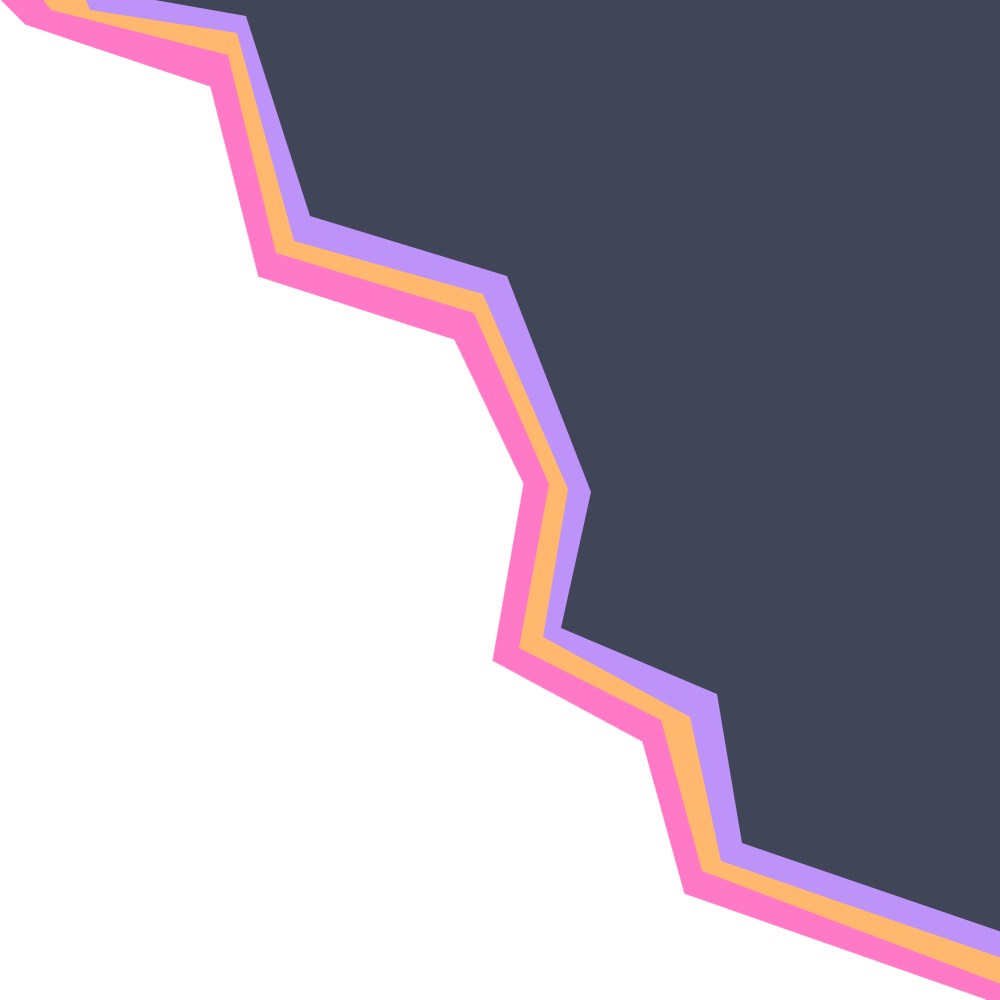
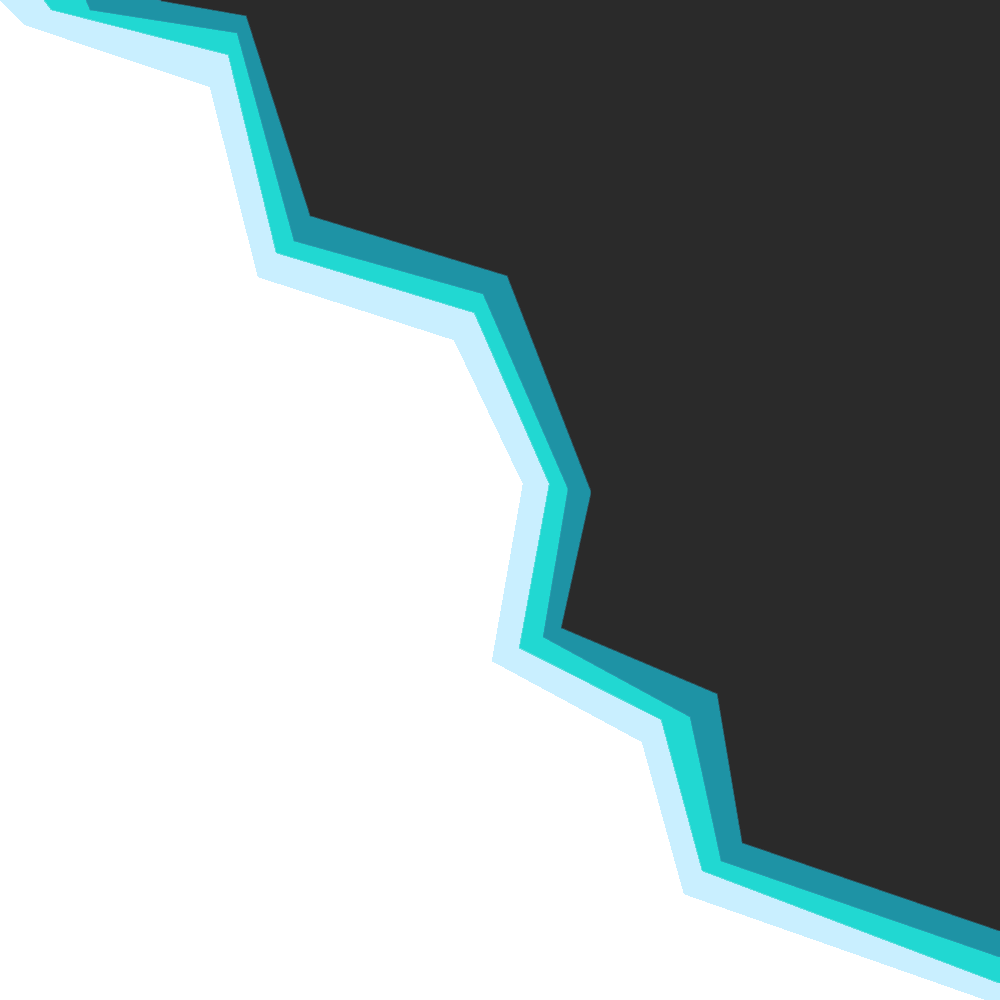
ui updates

diff --git a/src/components/forms/profile-edit.tsx b/src/components/forms/profile-edit.tsx
@@ -267,7 +267,7 @@ export default function ProfileEditForm(props: {
     }
 
     return (
-        <div className="card overflow-hidden bg-base-300 shadow-xl glass rounded-none md:rounded-2xl">
+        <div className="card overflow-hidden bg-base-300 shadow-xl glass rounded-2xl md:rounded-2xl">
             <div className="bg-base-300 card-body m-1 pulsar-shadow text-white sm: md:rounded-2xl shadow-2xl glass">
                 <div className="divider divider-primary">Basics</div>
 
@@ -300,7 +300,7 @@ export default function ProfileEditForm(props: {
                         <label className="label">
                             <span className="label-text">Profile description</span>
                         </label>
-                        <div className="join w-full rounded-xl">
+                        <div className="join w-full rounded-2xl">
                             <input type="text" placeholder="Description" className="input input-bordered shadow-md w-full glass placeholder:text-gray-200 rounded-l-xl" {
                                 ...registerDescr("description", {
                                     minLength: { value: 4, message: "Min length must be 4" },
@@ -378,7 +378,7 @@ export default function ProfileEditForm(props: {
                 </form>
 
                 <div className="divider divider-primary mt-10">Socials</div>
-                <button className="rounded-xl btn hover:bg-white hover:text-black glass text-white" onClick={userData.user.google?.email ? handleUnlinkGoogle : () => handleGoogle()}>
+                <button className="rounded-2xl btn hover:bg-white hover:text-black glass text-white" onClick={userData.user.google?.email ? handleUnlinkGoogle : () => handleGoogle()}>
                     <svg xmlns="http://www.w3.org/2000/svg" height="24" viewBox="0 0 24 24" width="24">
                         <path d="M22.56 12.25c0-.78-.07-1.53-.2-2.25H12v4.26h5.92c-.26 1.37-1.04 2.53-2.21 3.31v2.77h3.57c2.08-1.92 3.28-4.74 3.28-8.09z" fill="#4285F4"/>
                         <path d="M12 23c2.97 0 5.46-.98 7.28-2.66l-3.57-2.77c-.98.66-2.23 1.06-3.71 1.06-2.86 0-5.29-1.93-6.16-4.53H2.18v2.84C3.99 20.53 7.7 23 12 23z" fill="#34A853"/>
@@ -396,7 +396,7 @@ export default function ProfileEditForm(props: {
                     }}
                     onProfileSuccess={onFacebookGetProfileSuccess}
                     render={({ onClick, logout }) => (
-                        <button className="rounded-xl btn hover:bg-blue-600 glass text-white" onClick={userData.user.facebook?.name ? handleUnlinkFacebook : onClick}>
+                        <button className="rounded-2xl btn hover:bg-blue-600 glass text-white" onClick={userData.user.facebook?.name ? handleUnlinkFacebook : onClick}>
                             <svg fill="#0091ff" height="25px" width="25px" version="1.1" id="Layer_1" xmlns="http://www.w3.org/2000/svg" viewBox="0 0 310 310" stroke="#0091ff">
                             <g id="SVGRepo_bgCarrier" strokeWidth="0"></g><g id="SVGRepo_tracerCarrier" strokeLinecap="round" strokeLinejoin="round"></g>
                             <g id="SVGRepo_iconCarrier"> 
@@ -414,7 +414,7 @@ export default function ProfileEditForm(props: {
                 {
                     userData.user.twitter?.name
                     ?
-                    <button className="rounded-xl btn hover:bg-base-300 glass text-white w-full" onClick={handleUnlinkTwitter}>
+                    <button className="rounded-2xl btn hover:bg-base-300 glass text-white w-full" onClick={handleUnlinkTwitter}>
                         <svg xmlns="http://www.w3.org/2000/svg" x="0px" y="0px" width="32" height="32" viewBox="0 0 48 48">
                             <path fill="#212121" fillRule="evenodd" d="M38,42H10c-2.209,0-4-1.791-4-4V10c0-2.209,1.791-4,4-4h28	c2.209,0,4,1.791,4,4v28C42,40.209,40.209,42,38,42z" clipRule="evenodd"></path><path fill="#fff" d="M34.257,34h-6.437L13.829,14h6.437L34.257,34z M28.587,32.304h2.563L19.499,15.696h-2.563 L28.587,32.304z"></path><polygon fill="#fff" points="15.866,34 23.069,25.656 22.127,24.407 13.823,34"></polygon><polygon fill="#fff" points="24.45,21.721 25.355,23.01 33.136,14 31.136,14"></polygon>
                         </svg>
@@ -428,7 +428,7 @@ export default function ProfileEditForm(props: {
                             consumerKey={envCfg.passporttwitterKEY as string}
                             consumerSecret={envCfg.passportTwitterSECRET as string}
                         >
-                            <button className="rounded-xl btn hover:bg-base-300 glass text-white w-full">
+                            <button className="rounded-2xl btn hover:bg-base-300 glass text-white w-full">
                                 <svg xmlns="http://www.w3.org/2000/svg" x="0px" y="0px" width="32" height="32" viewBox="0 0 48 48">
                                     <path fill="#212121" fillRule="evenodd" d="M38,42H10c-2.209,0-4-1.791-4-4V10c0-2.209,1.791-4,4-4h28	c2.209,0,4,1.791,4,4v28C42,40.209,40.209,42,38,42z" clipRule="evenodd"></path><path fill="#fff" d="M34.257,34h-6.437L13.829,14h6.437L34.257,34z M28.587,32.304h2.563L19.499,15.696h-2.563 L28.587,32.304z"></path><polygon fill="#fff" points="15.866,34 23.069,25.656 22.127,24.407 13.823,34"></polygon><polygon fill="#fff" points="24.45,21.721 25.355,23.01 33.136,14 31.136,14"></polygon>
                                 </svg>

diff --git a/src/components/bars/category-leftbar/category-leftbar.tsx b/src/components/bars/category-leftbar/category-leftbar.tsx
@@ -10,12 +10,12 @@ export default function CategoryLeftBar(props: {
     const { title, bgImage, iconImage, description, count } = props;
 
     return (
-        <div className={`card w-fit max-w-[305px] bg-cover bg-center bg-base-300 shadow-none text-white max-h-52 relative bg-opacity-80`} 
+        <div className={`card w-fit max-w-[305px] bg-cover bg-center bg-base-300 shadow-none text-white max-h-52 relative bg-opacity-80 rounded-2xl`} 
             style={{ backgroundImage: `url(${'/assets/bgs/category.png'})` }}
         >
             
             <div className="card-body relative">
-                <div className="bg-secondary absolute top-0 left-0 w-fit rounded-br-xl rounded-tl-xl px-3 glass flex flex-row items-center">
+                <div className="bg-base-300 absolute top-0 left-0 w-fit rounded-br-xl rounded-tl-xl px-3 glass flex flex-row items-center">
                     <svg xmlns="http://www.w3.org/2000/svg" viewBox="0 0 16 16" fill="currentColor" className="size-4">
                         <path fillRule="evenodd" d="M5 1a2 2 0 0 0-2 2v10a2 2 0 0 0 2 2h6a2 2 0 0 0 2-2V3a2 2 0 0 0-2-2H5Zm.75 6a.75.75 0 1 0 0 1.5.75.75 0 0 0 0-1.5ZM5 3.75A.75.75 0 0 1 5.75 3h4.5a.75.75 0 0 1 0 1.5h-4.5A.75.75 0 0 1 5 3.75Zm.75 7.75a.75.75 0 1 0 0 1.5.75.75 0 0 0 0-1.5ZM5 10a.75.75 0 1 1 1.5 0A.75.75 0 0 1 5 10Zm5.25-3a.75.75 0 1 0 0 1.5.75.75 0 0 0 0-1.5Zm-.75 3a.75.75 0 0 1 1.5 0v2.25a.75.75 0 0 1-1.5 0V10ZM8 7a.75.75 0 1 0 0 1.5A.75.75 0 0 0 8 7Zm-.75 5.25a.75.75 0 1 1 1.5 0 .75.75 0 0 1-1.5 0Zm.75-3a.75.75 0 1 0 0 1.5.75.75 0 0 0 0-1.5Z" clipRule="evenodd" />
                     </svg>
@@ -32,7 +32,7 @@ export default function CategoryLeftBar(props: {
                 <p className="mr-8">{description}</p>
 
                 <div className="absolute top-0 right-0 h-full card-actions justify-end p-1">
-                    <Link className="btn btn-primary glass h-full btn-sm text-white rounded-xl" href={`/categories/${String(title).toLowerCase().replaceAll(' ', '-')}/1`}>
+                    <Link className="btn btn-primary glass h-full btn-sm text-white rounded-2xl" href={`/categories/${String(title).toLowerCase().replaceAll(' ', '-')}/1`}>
                         <svg xmlns="http://www.w3.org/2000/svg" viewBox="0 0 24 24" fill="currentColor" className="size-6">
                             <path fillRule="evenodd" d="M13.28 11.47a.75.75 0 0 1 0 1.06l-7.5 7.5a.75.75 0 0 1-1.06-1.06L11.69 12 4.72 5.03a.75.75 0 0 1 1.06-1.06l7.5 7.5Z" clipRule="evenodd" />
                             <path fillRule="evenodd" d="M19.28 11.47a.75.75 0 0 1 0 1.06l-7.5 7.5a.75.75 0 1 1-1.06-1.06L17.69 12l-6.97-6.97a.75.75 0 0 1 1.06-1.06l7.5 7.5Z" clipRule="evenodd" />

diff --git a/src/components/common/profile-card/profile-card.tsx b/src/components/common/profile-card/profile-card.tsx
@@ -141,7 +141,7 @@ export default function ProfileCard(props: {
                 refDialog={cropperModalRef}
                 handleImageCropModalClose={handleImageCropModalClose}
             />
-            <div className={`${!disableMargins && 'm-0 md:mx-4 md:mt-4'} card w-full text-white rounded-none md:rounded-2xl shadow-2xl bg-base-300`}>
+            <div className={`${!disableMargins && 'm-0 md:mx-4 md:mt-4'} card w-full text-white rounded-2xl md:rounded-2xl shadow-2xl bg-base-300`}>
                 <figure className="max-h-48">
                     <img className="w-full" src={data.user.background.length ? `${envCfg.serverBase}/files/${data.user.background}` : "/assets/bgs/profileDefaultBG.png"} alt="background"/>
                 </figure>
@@ -204,7 +204,7 @@ export default function ProfileCard(props: {
                                         <input 
                                             ref={refAvatar}
                                             type="file" 
-                                            className="rounded-xl file-input file-input-bordered w-full file:glass file:text-white file: placeholder:text-gray-200" 
+                                            className="rounded-2xl file-input file-input-bordered w-full file:glass file:text-white file: placeholder:text-gray-200" 
                                             onInput={e => handlePicture((e.target as HTMLInputElement).files?.[0] || null, "avatar")}
                                         />
                                     </label>
@@ -217,7 +217,7 @@ export default function ProfileCard(props: {
                                         <input 
                                             ref={refBackground}
                                             type="file" 
-                                            className="rounded-xl file-input file-input-bordered w-full file:glass file:text-white file: placeholder:text-gray-200" 
+                                            className="rounded-2xl file-input file-input-bordered w-full file:glass file:text-white file: placeholder:text-gray-200" 
                                             onInput={e => handlePicture((e.target as HTMLInputElement).files?.[0] || null, "background")}
                                         />
                                     </label>

diff --git a/src/app/globals.css b/src/app/globals.css
@@ -18,7 +18,7 @@
 }
 
 html {
-  background: linear-gradient(300deg, #ac5286, #bd93f9, #ffb86c, #414558);
+  background: linear-gradient(300deg, #1ba39c, #000000, #363636, #1ba39c, #ffffff);
   background-size: 240% 240%;
   animation: gradient-animation 60s ease infinite;
   transition: all .1s;
@@ -53,14 +53,14 @@ body {
   }
 
   .animated-box::before {
-    @apply content-[''] shadow-cyan-400 shadow-2xl absolute top-[-240px] left-[150px] w-[100px] h-[800px] bg-gradient-to-r from-[#66c1bd] to-[#ff79c6] animate-fullSpin
+    @apply content-[''] shadow-cyan-400 shadow-2xl absolute top-[-240px] left-[150px] w-[100px] h-[800px] bg-gradient-to-r from-[#1b8e9d] to-[#c9effe] animate-fullSpin
   }
   .animated-box::after {
     @apply content-[''] absolute inset-0.5 rounded-2xl
   }
 
   .animated-box-tools::before {
-    @apply content-[''] shadow-cyan-400 shadow-2xl absolute top-[-700px] left-[47%] w-[100px] h-[1700px] bg-gradient-to-r from-[#66c1bd] to-[#ff79c6] animate-fullSpin
+    @apply content-[''] shadow-cyan-400 shadow-2xl absolute top-[-700px] left-[47%] w-[100px] h-[1700px] bg-gradient-to-r from-[#1b8e9d] to-[#c9effe] animate-fullSpin
   }
   .animated-box-tools::after {
     @apply content-[''] absolute inset-0.5 rounded-2xl
@@ -76,7 +76,7 @@ body {
       box-shadow: none;
     }
     50% {
-      box-shadow: 0 0 20px #ffb86c; /* Tailwind’s shadow-2xl equivalent */
+      box-shadow: 0 0 20px #1b8e9d; /* Tailwind’s shadow-2xl equivalent */
     }
     100% {
       box-shadow: none;

diff --git a/src/components/bars/bar-tabs/bar-tabs-playlists.tsx b/src/components/bars/bar-tabs/bar-tabs-playlists.tsx
@@ -8,20 +8,20 @@ export default function BarTabsPlaylists(props: {
     const { activeTab } = props;
 
     return (
-        <div role="tablist" className="tabs tabs-boxed w-full bg-base-300 glass m-0 mt-3 md:mx-4 md:mt-4 rounded-none md:rounded-xl">
+        <div role="tablist" className="tabs tabs-boxed w-full bg-base-300 glass m-0 mt-3 md:mx-4 md:mt-4 rounded-2xl md:rounded-2xl">
             <Link 
                 role="tab" 
-                className={`tab ${activeTab === "explore" && "glass bg-[#bd93f9]"}`}
+                className={`tab ${activeTab === "explore" && "glass bg-[#1ba39c] text-white"}`}
                 href="/playlists/explore/1"
             >Explore</Link>
             <Link 
                 role="tab" 
-                className={`tab ${activeTab === "my-playlists" && "glass bg-[#bd93f9]"}`}
+                className={`tab ${activeTab === "my-playlists" && "glass bg-[#1ba39c] text-white"}`}
                 href="/playlists/my-playlists/1"
             >My playlists</Link>
             <Link 
                 role="tab" 
-                className={`tab ${activeTab === "create" && "glass bg-[#bd93f9]"}`} 
+                className={`tab ${activeTab === "create" && "glass bg-[#1ba39c] text-white"}`} 
                 href="/playlists/create"
             >Create new</Link>
         </div>

diff --git a/src/components/bars/bar-tabs/bar-tabs-battles.tsx b/src/components/bars/bar-tabs/bar-tabs-battles.tsx
@@ -8,21 +8,21 @@ export default function BarTabsBattles(props: {
     const { activeTab } = props;
 
     return (
-        <div role="tablist" className="tabs tabs-boxed w-full bg-base-300 glass m-0 mt-3 md:mx-4 md:mt-4 rounded-none md:rounded-xl">
+        <div role="tablist" className="tabs tabs-boxed w-full bg-base-300 glass m-0 mt-3 md:mx-4 md:mt-4 rounded-xl">
             <Link
                 href={"/battles/in-progress/1"}
                 role="tab" 
-                className={`tab ${activeTab === "in-progress" && "glass bg-[#bd93f9]"}`} 
+                className={`tab ${activeTab === "in-progress" && "glass bg-[#1ba39c] text-white"}`} 
             >In progress</Link>
             <Link
                 href={"/battles/finished/1"}
                 role="tab" 
-                className={`tab ${activeTab === "finished" && "glass bg-[#bd93f9]"}`} 
+                className={`tab ${activeTab === "finished" && "glass bg-[#1ba39c] text-white"}`} 
             >Finished</Link>
             <Link 
                 href={"/battles/create"}
                 role="tab" 
-                className={`tab ${activeTab === "create" && "glass bg-[#bd93f9]"}`} 
+                className={`tab ${activeTab === "create" && "glass bg-[#1ba39c] text-white"}`} 
             >Create new</Link>
         </div>
     );

diff --git a/src/components/wrappers/hero-wrapper-form.tsx b/src/components/wrappers/hero-wrapper-form.tsx
@@ -10,10 +10,10 @@ export default function HeroWrapperForm(props: {
     const { bgStyles, children, title, description, fullWidth } = props;
 
     return (
-        <div className="w-full p-0 md:px-4 md:pt-4">
-            <div className={`hero min-h-screen h-fit shadow-2xl relative rounded-none md:rounded-2xl bg-opacity-80`}>
-                <div className="hero-overlay md:rounded-2xl bg-base-300"></div>
-                <div className="flex w-full flex-col items-center justify-center py-10 min-h-screen z-10">
+        <div className="w-full p-2 pt-4 md:px-4 md:pt-4">
+            <div className={`hero min-h-screen h-fit shadow-2xl relative rounded-2xl`}>
+                <div className="hero-overlay rounded-2xl bg-base-300 bg-opacity-80"></div>
+                <div className="flex w-full flex-col items-center justify-center py-10 min-h-screen z-10 overflow-hidden">
                     <div className="hero-content text-center w-full flex flex-col relative">
                             <h1 className="mb-5 text-5xl font-bold text-white text-center z-20">{title}</h1>
                             <p className="mb-5 text-white text-center z-20">{description}</p>

diff --git a/src/components/bars/bar-tabs/bar-tabs-notifications.tsx b/src/components/bars/bar-tabs/bar-tabs-notifications.tsx
@@ -8,15 +8,15 @@ export default function NotificationsTabsBattles(props: {
     const { activeTab } = props;
 
     return (
-        <div role="tablist" className="tabs tabs-boxed w-full bg-base-300 glass m-0 mt-3 md:mx-4 md:mt-4 rounded-none md:rounded-xl">
+        <div role="tablist" className="tabs tabs-boxed w-full bg-base-300 glass m-0 mt-3 md:mx-4 md:mt-4 rounded-2xl md:rounded-2xl">
             <Link 
                 role="tab" 
-                className={`tab ${activeTab === "new" && "glass bg-[#bd93f9]"}`}
+                className={`tab ${activeTab === "new" && "glass bg-[#1ba39c] text-white"}`}
                 href={"/profile/me/notifications/new/1"}
             >New</Link>
             <Link 
                 role="tab" 
-                className={`tab ${activeTab === "read" && "glass bg-[#bd93f9]"}`}
+                className={`tab ${activeTab === "read" && "glass bg-[#1ba39c] text-white"}`}
                 href={"/profile/me/notifications/read/1"}
             >Reviewed</Link>
         </div>

diff --git a/src/components/entities/post/post-skeleton.tsx b/src/components/entities/post/post-skeleton.tsx
@@ -10,7 +10,7 @@ export default function PostSkeleton(props: {
             </div>
             
 
-            <div className="skeleton w-80 h-[180px] rounded-none"></div>
+            <div className="skeleton w-80 h-[180px] rounded-2xl"></div>
 
             <div className="card-body text-start p-5">
                 <h2 className="card-title">
@@ -22,7 +22,7 @@ export default function PostSkeleton(props: {
             <div className="p-2">
                 <div className="skeleton h-[130px] w-full shadow-md"></div>
             </div>
-            <div className="skeleton h-14 w-full shadow-md rounded-xl"></div>
+            <div className="skeleton h-14 w-full shadow-md rounded-2xl"></div>
         </div>
     );
 }

diff --git a/src/components/forms/post-upload.tsx b/src/components/forms/post-upload.tsx
@@ -99,7 +99,7 @@ export default function PostUploadForm() {
             refDialog={cropperModalRef}
             handleImageCropModalClose={handleImageCropModalClose}
         />
-        <div className="card overflow-hidden bg-base-300 shadow-xl glass">
+        <div className="card overflow-hidden bg-base-300 shadow-xl glass rounded-2xl">
             <form className="card-body m-1 pulsar-shadow text-white glass bg-base-300 shadow-2xl rounded-2xl" onSubmit={handleSubmit(onSubmit)} noValidate>
                 <div className="divider divider-primary">Post setup</div>
                 <div className="form-control">

diff --git a/src/app/layout.tsx b/src/app/layout.tsx
@@ -50,7 +50,7 @@ export default function RootLayout({
                                     <div className="card w-full  my-14 md:my-[72px]">
                                         <div className="card-body p-0 gap-0">
                                             <NextTopLoader 
-                                                color="#bd93f9"
+                                                color="#fff"
                                                 initialPosition={0.18}
                                                 crawlSpeed={200}
                                                 height={5}

diff --git a/src/components/common/player/player-track-info.tsx b/src/components/common/player/player-track-info.tsx
@@ -74,7 +74,7 @@ export default function PlayerTrackInfo() {
             <div className="flex flex-row mb-3 gap-3">
                 <img 
                     src={data?.post?.image ? `${envCfg.serverBase}/files/${data.post.image}` : 'assets/bgs/profileDefaultBG.png'}
-                    className="shadow-2xl max-h-[180px] h-[180px] max-w-80 rounded-xl" 
+                    className="shadow-2xl max-h-[180px] h-[180px] max-w-80 rounded-2xl" 
                 />
                 <div className="flex flex-col gap-1">
                     <div className="stats glass thin-scrollbar h-36">
